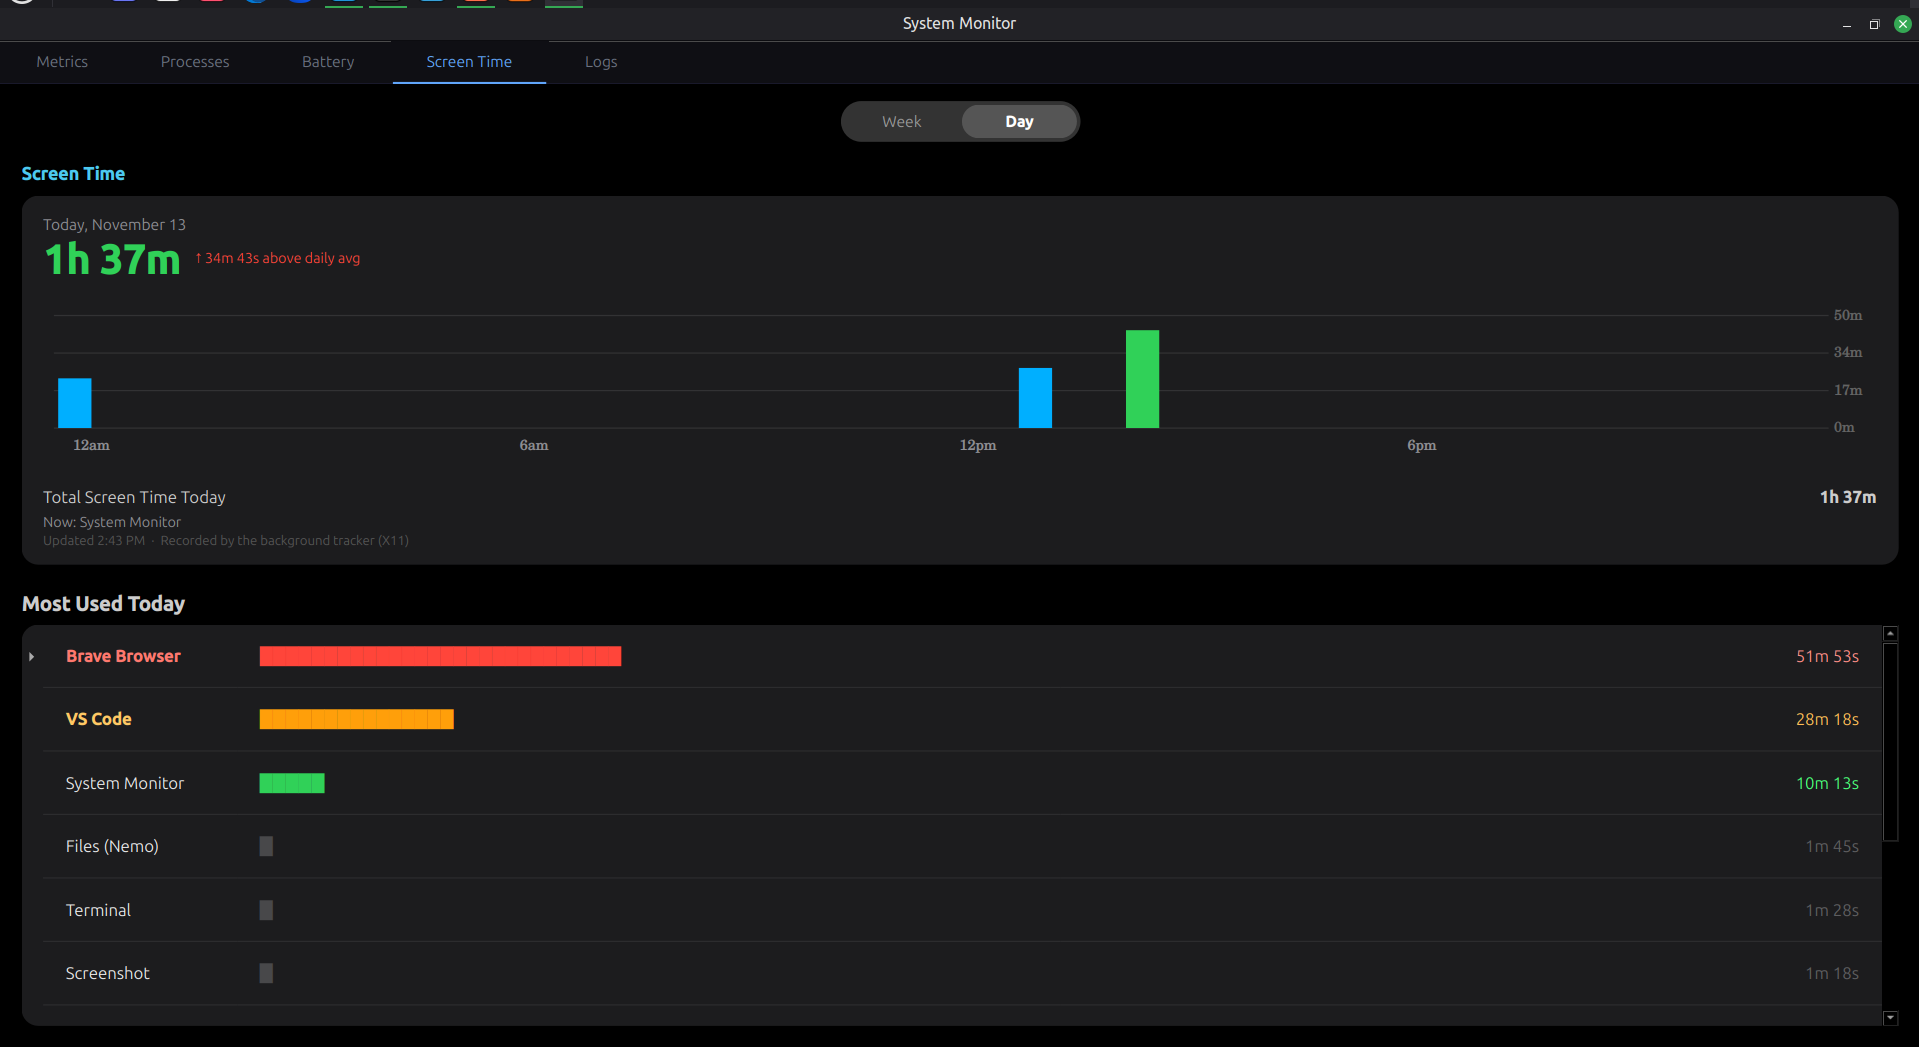
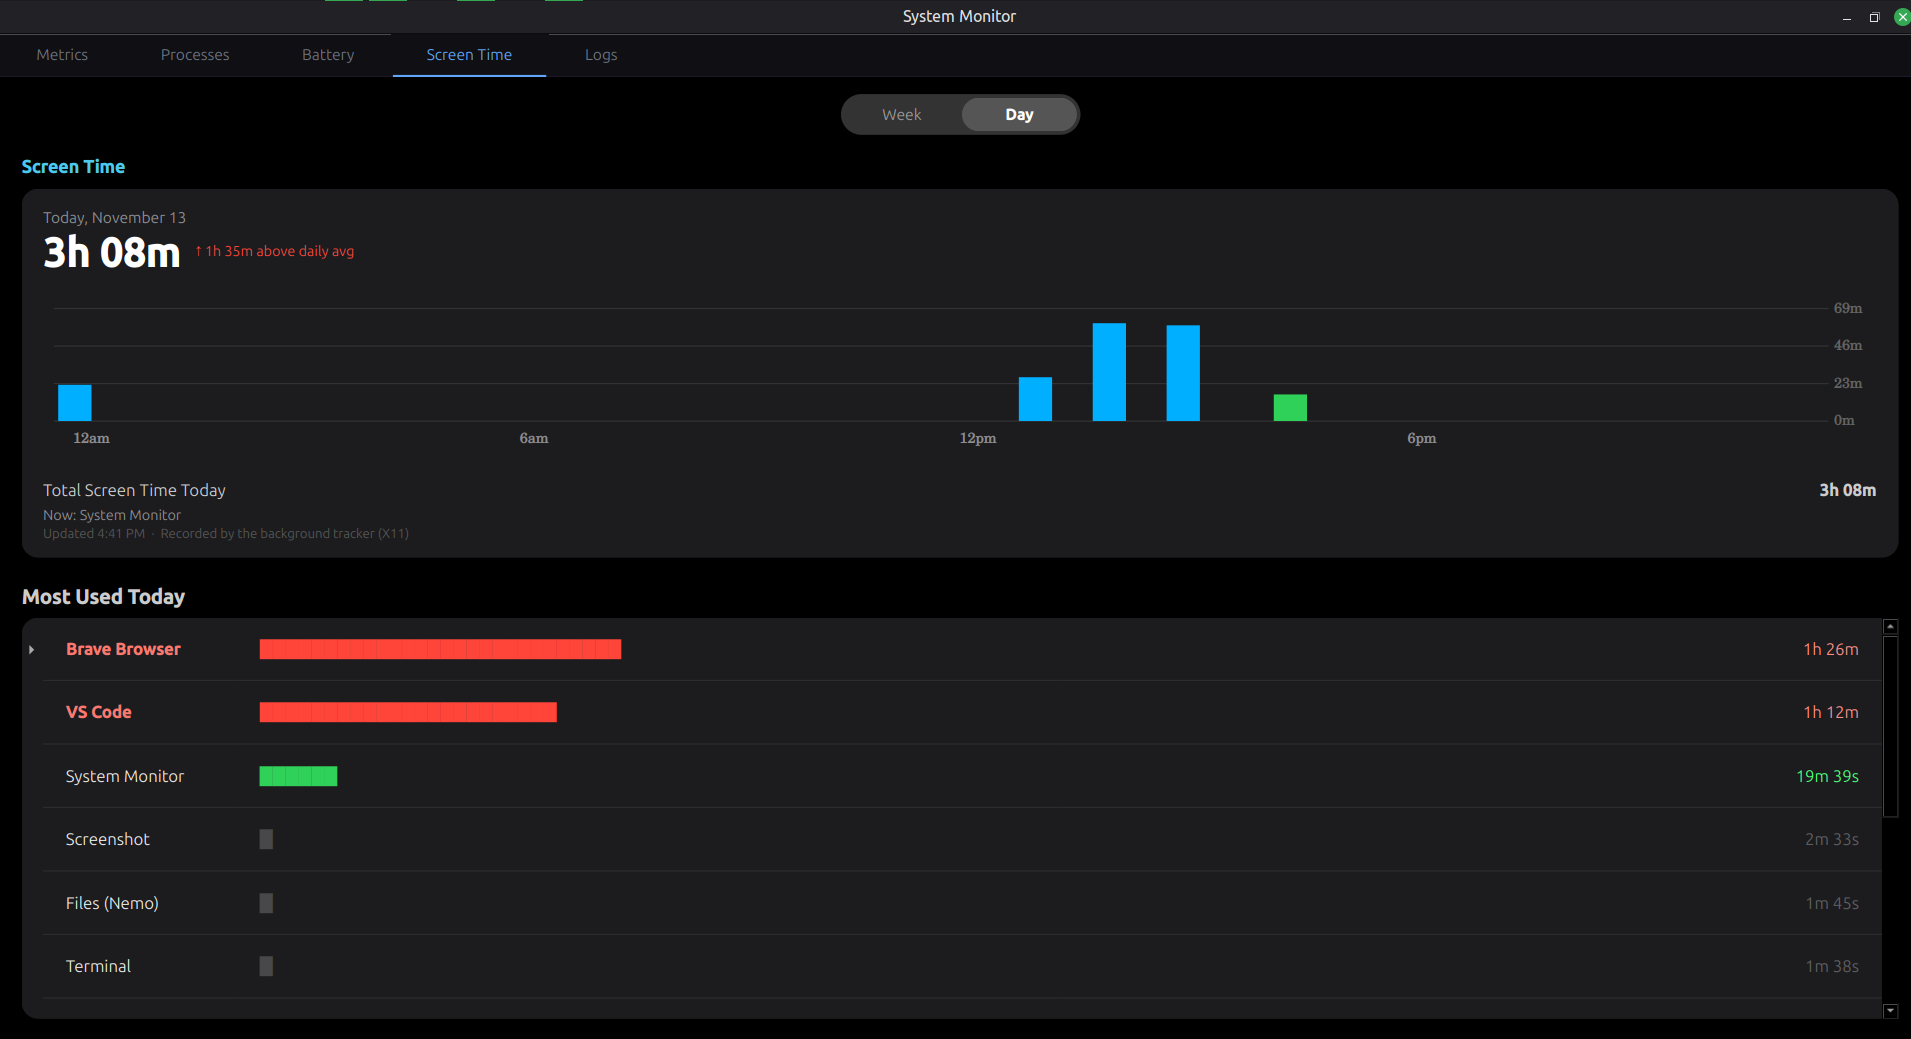
change screen time UI

diff --git a/src/MainWindow.cpp b/src/MainWindow.cpp
@@ -19,6 +19,7 @@ MainWindow::MainWindow(QWidget *parent) : QMainWindow(parent) {
     tabs->addTab(screenTimeTab, "  Screen Time  ");
     tabs->addTab(logsTab, "  Logs  ");
     setCentralWidget(tabs);
+    connect(tabs, &QTabWidget::currentChanged, this, &MainWindow::onTabChanged);
 
     // All sampling (/proc, sysfs, X11, SQLite) happens on the worker thread.
     qRegisterMetaType<Snapshot>("Snapshot");
@@ -58,12 +59,11 @@ void MainWindow::onSnapshot(const Snapshot &s) {
     metricsTab->updateNetwork(s.netRxBps, s.netTxBps, s.netTotalRx, s.netTotalTx);
     metricsTab->updateBattery(s.hasBattery, s.batteryPct, s.batteryStatus, s.batteryPowerW);
 
-    // Only rebuild the heavier tabs when they are visible; the data is in the
-    // snapshot anyway and will be shown as soon as the user switches.
-    QWidget *current = tabs->currentWidget();
-    if (current == processesTab) processesTab->refresh(s.procs);
-    if (current == batteryStatsTab) batteryStatsTab->update(s);
-    if (current == screenTimeTab) screenTimeTab->updateStats(s.screen);
+    // Only rebuild the heavier tabs when they are visible; the snapshot is kept
+    // so the tab the user switches to is filled at once (see onTabChanged).
+    lastSnapshot = s;
+    haveSnapshot = true;
+    refreshTab(tabs->currentWidget(), s);
 
     double memPct = (s.memTotalMB > 0) ? (s.memUsedMB / s.memTotalMB) * 100.0 : 0.0;
     double maxDiskPct = 0.0;
@@ -81,4 +81,14 @@ void MainWindow::onSnapshot(const Snapshot &s) {
     snap.diskWriteBps = s.diskWriteBps;
     snap.processCount = static_cast<int>(s.procs.size());
     logsTab->recordSnapshot(snap);
+}
+
+void MainWindow::refreshTab(QWidget *tab, const Snapshot &s) {
+    if (tab == processesTab) processesTab->refresh(s.procs);
+    else if (tab == batteryStatsTab) batteryStatsTab->update(s);
+    else if (tab == screenTimeTab) screenTimeTab->updateStats(s.screen);
+}
+
+void MainWindow::onTabChanged(int index) {
+    if (haveSnapshot) refreshTab(tabs->widget(index), lastSnapshot);
 }

diff --git a/src/widgets/ScreenTimeTab.cpp b/src/widgets/ScreenTimeTab.cpp
@@ -371,15 +371,15 @@ void ScreenTimeTab::refresh() {
     };
 
     if (showingWeek) {
-        periodLabel->setText("Daily Average");
-        bigTimeLabel->setText(fmtTime(cached.dailyAverageSeconds));
-        totalLabel->setText("Total Screen Time (7 days)");
-        totalTimeLabel->setText(fmtTime(cached.weekSeconds));
+        periodLabel->setText("Total Screen Time (7 days)");
+        bigTimeLabel->setText(fmtTime(cached.weekSeconds));
+        totalLabel->setText("Daily Average");
+        totalTimeLabel->setText(fmtTime(cached.dailyAverageSeconds));
         QDate start = QDate::currentDate().addDays(-6), end = QDate::currentDate();
         changeLabel->setText(QString("%1 – %2").arg(start.toString("MMM d"), end.toString("MMM d")));
         changeLabel->setStyleSheet("color:#8e8e93; font-size:12px;");
         bigTimeLabel->setStyleSheet(QString("color:%1; font-size:34px; font-weight:bold;")
-            .arg(colorFor(cached.dailyAverageSeconds, 6 * 3600, 4 * 3600, 2 * 3600)));
+            .arg(colorFor(cached.weekSeconds, 42 * 3600, 28 * 3600, 14 * 3600)));
         mostUsedTitle->setText("Most Used This Week");
         buildWeekChart();
     } else {

diff --git a/src/MainWindow.h b/src/MainWindow.h
@@ -23,6 +23,7 @@ public:
 private slots:
     void requestSample();
     void onSnapshot(const Snapshot &s);
+    void onTabChanged(int index);
 
 private:
     QTabWidget *tabs;
@@ -35,7 +36,11 @@ private:
     QThread workerThread;
     SampleWorker *worker;
     bool samplePending = false;
+    Snapshot lastSnapshot;
+    bool haveSnapshot = false;
 
     QTimer *refreshTimer;
     static constexpr int REFRESH_MS = 1500;
+
+    void refreshTab(QWidget *tab, const Snapshot &s);
 };
